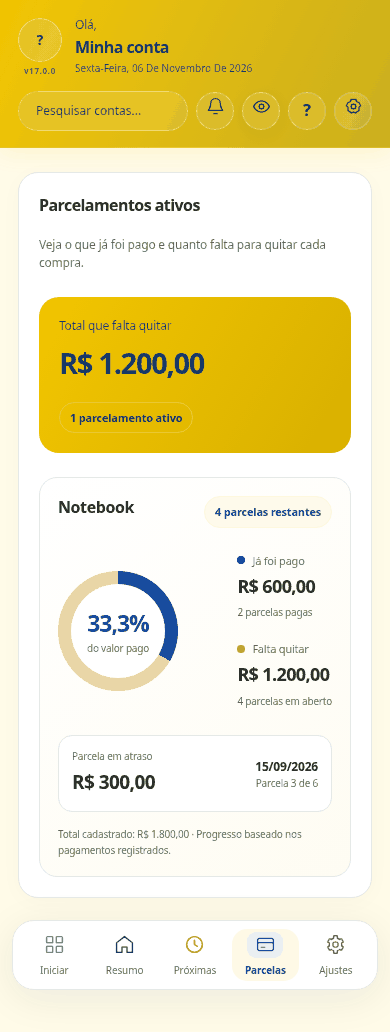
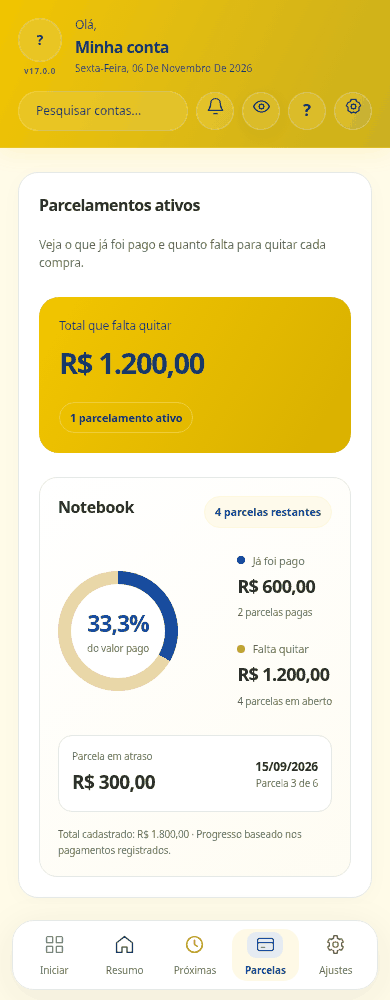
Reserve content viewport above fixed bottom navigation

Changed region(s): [[0.0, 0.0, 1.0, 0.992]]

diff --git a/index.html b/index.html
@@ -214,7 +214,7 @@ function previewColors(){const t=THEMES[$('themeSelect').value]||THEMES.inter,ro
 $('themeSelect').onchange=previewColors;
 $('avatarFile').onchange=()=>{const file=$('avatarFile').files[0];if(file){if(file.size>5*1024*1024){showMsg('profileMsg','A imagem deve ter no máximo 5 MB.');$('avatarFile').value='';return}const reader=new FileReader();reader.onload=()=>{$('profilePreview').src=reader.result};reader.readAsDataURL(file)}};
 
-function setView(id){document.querySelectorAll('.view').forEach(x=>x.classList.toggle('active',x.id===id));document.querySelectorAll('nav button').forEach(x=>x.classList.toggle('active',x.dataset.view===id));if(id==='analytics'){if(!$('analyticsMonth').value)$('analyticsMonth').value=firstDay(month).slice(0,7);renderAnalytics()}if(id==='plans')renderPlans();if(id==='accounts')renderEntries();if(id==='salaryView')renderSalaries();window.scrollTo({top:0,behavior:'smooth'})}
+function setView(id){document.querySelectorAll('.view').forEach(x=>x.classList.toggle('active',x.id===id));document.querySelectorAll('nav button').forEach(x=>x.classList.toggle('active',x.dataset.view===id));if(id==='analytics'){if(!$('analyticsMonth').value)$('analyticsMonth').value=firstDay(month).slice(0,7);renderAnalytics()}if(id==='plans')renderPlans();if(id==='accounts')renderEntries();if(id==='salaryView')renderSalaries();document.querySelector('main').scrollTo({top:0,behavior:'instant'});window.scrollTo({top:0,behavior:'smooth'})}
 document.querySelectorAll('nav button').forEach(b=>b.onclick=()=>setView(b.dataset.view));document.querySelectorAll('[data-go]').forEach(b=>b.onclick=()=>setView(b.dataset.go));
 document.querySelectorAll('[data-close]').forEach(b=>b.onclick=()=>$(b.dataset.close).classList.remove('open'));document.addEventListener('click',ev=>{const row=ev.target.closest('[data-row-edit]');if(row&&!ev.target.closest('button')&&row.dataset.rowEdit){const edit=document.querySelector('[data-edit="'+row.dataset.rowEdit+'"]');if(edit)edit.click()}});
 function openModal(id){$(id).classList.add('open')}

diff --git a/styles/banking.css b/styles/banking.css
@@ -51,3 +51,9 @@ button{background:var(--brand-safe)}.bottom-nav button{background:transparent}.b
 @media(max-width:420px){.installment-detail{padding:18px;border-radius:18px}.installment-overview{padding:20px}.installment-overview strong{font-size:29px}.installment-visual{gap:20px;justify-content:space-between}.installment-donut{width:120px;height:120px}.installment-donut>div{width:94px;height:94px}.installment-donut strong{font-size:23px}.installment-legend strong{font-size:18px}.installment-next{padding:13px}.installment-heading h3{font-size:16px}}
 @media(max-width:340px){.installment-visual{flex-direction:column;gap:20px}.installment-legend{display:flex;justify-content:space-between;gap:16px;width:100%}.installment-legend>div+div{margin-top:0}.installment-legend strong{font-size:16px}}
 @media(max-width:600px){.analytics-filters .field{flex-basis:100%;min-width:0}}
+
+/* Keep the fixed menu outside the content's scrollable viewport. */
+body:has(#app:not(.hidden)){height:100dvh;overflow:hidden;display:flex;flex-direction:column;padding-bottom:0}
+body:has(#app:not(.hidden))>.app-header{flex:none}
+body:has(#app:not(.hidden))>main{flex:1;min-height:0;width:100%;overflow-y:auto;overscroll-behavior-y:contain;scroll-padding-block:24px;margin:0 auto calc(108px + env(safe-area-inset-bottom));padding-top:28px;padding-bottom:24px}
+@media(max-width:760px){body:has(#app:not(.hidden))>main{margin-bottom:calc(96px + env(safe-area-inset-bottom));padding-top:24px;padding-bottom:20px}}

diff --git a/sw.js b/sw.js
@@ -1,4 +1,4 @@
-const CACHE='financeiro-familiar-v37';
+const CACHE='financeiro-familiar-v38';
 const CORE=['./','./index.html','./manifest.webmanifest','./icon.svg','./styles/banking.css','./js/analytics.js','./js/installments.js'];
 self.addEventListener('install',event=>event.waitUntil(caches.open(CACHE).then(cache=>cache.addAll(CORE)).then(()=>self.skipWaiting())));
 self.addEventListener('activate',event=>event.waitUntil(caches.keys().then(keys=>Promise.all(keys.filter(key=>key!==CACHE).map(key=>caches.delete(key)))).then(()=>self.clients.claim())));

diff --git a/docs/design/README.md b/docs/design/README.md
@@ -16,7 +16,7 @@ Histórico incompleto é identificado; o progresso usa apenas registros disponí
 Privacidade oculta valores e proporções de ambos os dashboards.
 
 Arquivos principais: index.html, styles/banking.css, js/analytics.js,
-js/installments.js e sw.js (cache v37 com os dois módulos e o CSS em CORE).
+js/installments.js e sw.js (cache v38 com os dois módulos e o CSS em CORE).
 Sem mudança em autenticação, formulários, pagamentos, schema ou dados do banco.
 Mudanças JavaScript adicionais limitadas à apresentação de parcelamentos.
 
@@ -28,3 +28,8 @@ Capturas nesta pasta são demonstrativas, sem dados reais.
 Não executados: login real, aparelhos físicos e atualização do PWA instalado.
 Não publicado. Ao integrar o ícone (#2), preservar todos os assets do CORE e
 incrementar o cache. Não aplicar novamente o PR #1 após esta revisão.
+
+Menu fixo: área de conteúdo com rolagem própria termina acima da navegação.
+Verificado geometricamente em Chromium em 1440/390/320 px: limite inferior do
+conteúdo menor que o topo do menu, que permanece position:fixed. A troca de
+tela retorna a rolagem do conteúdo ao início.
